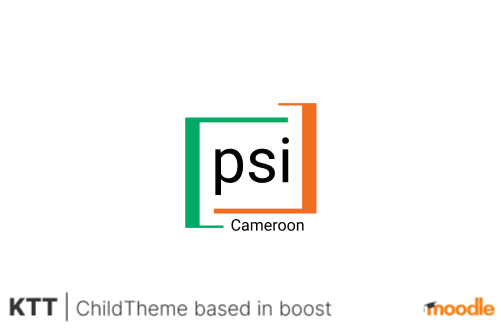
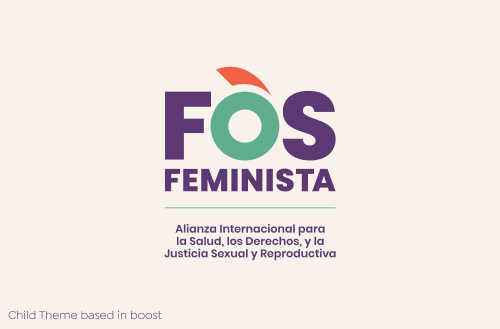
update

Changed region(s): [[0.33, 0.1824, 0.69, 0.7903], [0.0, 0.8815, 0.66, 0.9726], [0.84, 0.8815, 0.99, 0.9726]]

diff --git a/statics/contact.html b/statics/contact.html
@@ -6,7 +6,7 @@
   <body>
     <div class="con_img">
       <img
-        src="/theme/image.php/ktt_boost_child_cmrn/theme_ktt_boost_child_cmrn/1702559881/ou_img/contact"
+        src="/theme/image.php/child_fos_feminista/theme_child_fos_feminista/1702559881/ou_img/contact"
       />
       <div class="img_tt">
         <h2>
@@ -23,7 +23,7 @@
         <div class="smpl_card">
           <div class="cont_icon">
             <img
-              src="/theme/image.php/ktt_boost_child_cmrn/theme_ktt_boost_child_cmrn/1702559881/icons/image1"
+              src="/theme/image.php/child_fos_feminista/theme_child_fos_feminista/1702559881/icons/image1"
             />
           </div>
           <div class="cont_descr">
@@ -44,7 +44,7 @@
         <div class="smpl_card">
           <div class="cont_icon">
             <img
-              src="/theme/image.php/ktt_boost_child_cmrn/theme_ktt_boost_child_cmrn/1702559881/icons/image2"
+              src="/theme/image.php/child_fos_feminista/theme_child_fos_feminista/1702559881/icons/image2"
             />
           </div>
           <div class="cont_descr">
@@ -68,7 +68,7 @@
         <div class="smpl_card">
           <div class="cont_icon">
             <img
-              src="/theme/image.php/ktt_boost_child_cmrn/theme_ktt_boost_child_cmrn/1702559881/icons/image3"
+              src="/theme/image.php/child_fos_feminista/theme_child_fos_feminista/1702559881/icons/image3"
             />
           </div>
           <div class="cont_descr">
@@ -90,7 +90,7 @@
         <div class="smpl_card">
           <div class="cont_icon">
             <img
-              src="/theme/image.php/ktt_boost_child_cmrn/theme_ktt_boost_child_cmrn/1702559881/icons/image4"
+              src="/theme/image.php/child_fos_feminista/theme_child_fos_feminista/1702559881/icons/image4"
             />
           </div>
           <div class="cont_descr">
@@ -110,7 +110,7 @@
         <div class="smpl_card">
           <div class="cont_icon">
             <img
-              src="/theme/image.php/ktt_boost_child_cmrn/theme_ktt_boost_child_cmrn/1702559881/icons/image5"
+              src="/theme/image.php/child_fos_feminista/theme_child_fos_feminista/1702559881/icons/image5"
             />
           </div>
           <div class="cont_descr">
@@ -130,7 +130,7 @@
         <div class="smpl_card">
           <div class="cont_icon">
             <img
-              src="/theme/image.php/ktt_boost_child_cmrn/theme_ktt_boost_child_cmrn/1702559881/icons/image6"
+              src="/theme/image.php/child_fos_feminista/theme_child_fos_feminista/1702559881/icons/image6"
             />
           </div>
           <div class="cont_descr">

diff --git a/statics/about.html b/statics/about.html
@@ -6,7 +6,7 @@
   <body>
     <div class="con_img">
       <img
-        src="/theme/image.php/ktt_boost_child_cmrn/theme_ktt_boost_child_cmrn/1702559881/ou_img/aboutus"
+        src="/theme/image.php/child_fos_feminista/theme_child_fos_feminista/1702559881/ou_img/aboutus"
       />
       <div class="img_tt">
         <h2>
@@ -27,13 +27,13 @@
       <div class="cont_icon_frs">
         <div class="icon_frs">
           <img
-            src="/theme/image.php/ktt_boost_child_cmrn/theme_ktt_boost_child_cmrn/1702559881/ou_img/psi-cameroon"
+            src="/theme/image.php/child_fos_feminista/theme_child_fos_feminista/1702559881/ou_img/psi-cameroon"
             alt=""
           />
         </div>
         <div class="frs">
           <h2>
-            <span lang="en" class="multilang">PSI - Cameroon</span
+            <span lang="en" class="multilang">PSI - FOS Feministaa</span
             ><span lang="fr" class="multilang">PSI - Cameroun</span>
           </h2>
           <p>

diff --git a/scss/post.scss b/scss/post.scss
@@ -1,4 +1,4 @@
-$bk: #FFF;
+$bk: #000;
 $mav_primary: #000000;
 $mav_primary_s: #F26A5E;
 

diff --git a/settings.php b/settings.php
@@ -10,22 +10,22 @@ defined('MOODLE_INTERNAL') || die();
 if ($ADMIN->fulltree) {
 
     // Boost provides a nice setting page which splits settings onto separate tabs. We want to use it here.
-    $settings = new theme_boost_admin_settingspage_tabs('themesettingktt_boost_child_cmrn', get_string('configtitle', 'theme_ktt_boost_child_cmrn'));
+    $settings = new theme_boost_admin_settingspage_tabs('themesettingchild_fos_feminista', get_string('configtitle', 'theme_child_fos_feminista'));
 
     // Each page is a tab - the first is the "General" tab.
-    $page = new admin_settingpage('theme_ktt_boost_child_cmrn_general', get_string('generalsettings', 'theme_ktt_boost_child_cmrn'));
+    $page = new admin_settingpage('theme_child_fos_feminista_general', get_string('generalsettings', 'theme_child_fos_feminista'));
 
     // Replicate the preset setting from boost.
-    $name = 'theme_ktt_boost_child_cmrn/preset';
-    $title = get_string('preset', 'theme_ktt_boost_child_cmrn');
-    $description = get_string('preset_desc', 'theme_ktt_boost_child_cmrn');
+    $name = 'theme_child_fos_feminista/preset';
+    $title = get_string('preset', 'theme_child_fos_feminista');
+    $description = get_string('preset_desc', 'theme_child_fos_feminista');
     $default = 'default.scss';
 
     // We list files in our own file area to add to the drop down. We will provide our own function to
     // load all the presets from the correct paths.
     $context = context_system::instance();
     $fs = get_file_storage();
-    $files = $fs->get_area_files($context->id, 'theme_ktt_boost_child_cmrn', 'preset', 0, 'itemid, filepath, filename', false);
+    $files = $fs->get_area_files($context->id, 'theme_child_fos_feminista', 'preset', 0, 'itemid, filepath, filename', false);
 
     $choices = [];
     foreach ($files as $file) {
@@ -40,9 +40,9 @@ if ($ADMIN->fulltree) {
     $page->add($setting);
 
     // Preset files setting.
-    $name = 'theme_ktt_boost_child_cmrn/presetfiles';
-    $title = get_string('presetfiles','theme_ktt_boost_child_cmrn');
-    $description = get_string('presetfiles_desc', 'theme_ktt_boost_child_cmrn');
+    $name = 'theme_child_fos_feminista/presetfiles';
+    $title = get_string('presetfiles','theme_child_fos_feminista');
+    $description = get_string('presetfiles_desc', 'theme_child_fos_feminista');
 
     $setting = new admin_setting_configstoredfile($name, $title, $description, 'preset', 0,
                                                   array('maxfiles' => 20, 'accepted_types' => array('.scss')));
@@ -50,9 +50,9 @@ if ($ADMIN->fulltree) {
 
     // Variable $brand-color.
     // We use an empty default value because the default colour should come from the preset.
-    $name = 'theme_ktt_boost_child_cmrn/brandcolor';
-    $title = get_string('brandcolor', 'theme_ktt_boost_child_cmrn');
-    $description = get_string('brandcolor_desc', 'theme_ktt_boost_child_cmrn');
+    $name = 'theme_child_fos_feminista/brandcolor';
+    $title = get_string('brandcolor', 'theme_child_fos_feminista');
+    $description = get_string('brandcolor_desc', 'theme_child_fos_feminista');
     $setting = new admin_setting_configcolourpicker($name, $title, $description, '');
     $setting->set_updatedcallback('theme_reset_all_caches');
     $page->add($setting);
@@ -61,17 +61,17 @@ if ($ADMIN->fulltree) {
     $settings->add($page);
 
     // Advanced settings.
-    $page = new admin_settingpage('theme_ktt_boost_child_cmrn_advanced', get_string('advancedsettings', 'theme_ktt_boost_child_cmrn'));
+    $page = new admin_settingpage('theme_child_fos_feminista_advanced', get_string('advancedsettings', 'theme_child_fos_feminista'));
 
     // Raw SCSS to include before the content.
-    $setting = new admin_setting_configtextarea('theme_ktt_boost_child_cmrn/scsspre',
-                                                get_string('rawscsspre', 'theme_ktt_boost_child_cmrn'), get_string('rawscsspre_desc', 'theme_ktt_boost_child_cmrn'), '', PARAM_RAW);
+    $setting = new admin_setting_configtextarea('theme_child_fos_feminista/scsspre',
+                                                get_string('rawscsspre', 'theme_child_fos_feminista'), get_string('rawscsspre_desc', 'theme_child_fos_feminista'), '', PARAM_RAW);
     $setting->set_updatedcallback('theme_reset_all_caches');
     $page->add($setting);
 
     // Raw SCSS to include after the content.
-    $setting = new admin_setting_configtextarea('theme_ktt_boost_child_cmrn/scss', get_string('rawscss', 'theme_ktt_boost_child_cmrn'),
-                                                get_string('rawscss_desc', 'theme_ktt_boost_child_cmrn'), '', PARAM_RAW);
+    $setting = new admin_setting_configtextarea('theme_child_fos_feminista/scss', get_string('rawscss', 'theme_child_fos_feminista'),
+                                                get_string('rawscss_desc', 'theme_child_fos_feminista'), '', PARAM_RAW);
     $setting->set_updatedcallback('theme_reset_all_caches');
     $page->add($setting);
 

diff --git a/lib.php b/lib.php
@@ -6,7 +6,7 @@
 defined('MOODLE_INTERNAL') || die();
 
 // We will add callbacks here as we add features to our theme.
-function theme_ktt_boost_child_cmrn_get_main_scss_content($theme) {
+function theme_child_fos_feminista_get_main_scss_content($theme) {
     global $CFG;
 
     $scss = '';
@@ -21,24 +21,24 @@ function theme_ktt_boost_child_cmrn_get_main_scss_content($theme) {
         // We still load the default preset files directly from the boost theme. No sense in duplicating them.
         $scss .= file_get_contents($CFG->dirroot . '/theme/boost/scss/preset/plain.scss');
 
-    } else if ($filename && ($presetfile = $fs->get_file($context->id, 'theme_ktt_boost_child_cmrn', 'preset', 0, '/', $filename))) {
-        // This preset file was fetched from the file area for theme_ktt_boost_child_cmrn and not theme_boost (see the line above).
+    } else if ($filename && ($presetfile = $fs->get_file($context->id, 'theme_child_fos_feminista', 'preset', 0, '/', $filename))) {
+        // This preset file was fetched from the file area for theme_child_fos_feminista and not theme_boost (see the line above).
         $scss .= $presetfile->get_content();
     } else {
         // Safety fallback - maybe new installs etc.
         $scss .= file_get_contents($CFG->dirroot . '/theme/boost/scss/preset/default.scss');
     }
     // Pre CSS - this is loaded AFTER any prescss from the setting but before the main scss.
-    $pre = file_get_contents($CFG->dirroot . '/theme/ktt_boost_child_cmrn/scss/pre.scss');
+    $pre = file_get_contents($CFG->dirroot . '/theme/child_fos_feminista/scss/pre.scss');
     // Post CSS - this is loaded AFTER the main scss but before the extra scss from the setting.
-    $post = file_get_contents($CFG->dirroot . '/theme/ktt_boost_child_cmrn/scss/post.scss');
+    $post = file_get_contents($CFG->dirroot . '/theme/child_fos_feminista/scss/post.scss');
     // Combine them together.
     return $pre . "\n" . $scss . "\n" . $post;
 }
 
-function ktt_boost_child_cmrn_extend_navigation(global_navigation $navigation) {
-    $url_contact = new moodle_url('/theme/ktt_boost_child_cmrn/pages/contact.php');
-    $url_about = new moodle_url('/theme/ktt_boost_child_cmrn/pages/about.php');
+function child_fos_feminista_extend_navigation(global_navigation $navigation) {
+    $url_contact = new moodle_url('/theme/child_fos_feminista/pages/contact.php');
+    $url_about = new moodle_url('/theme/child_fos_feminista/pages/about.php');
     
     $node_contact = navigation_node::create('Página contact', $url_contact, navigation_node::NODETYPE_LEAF, null, 'contact');
     $node_about = navigation_node::create('Página about', $url_about, navigation_node::NODETYPE_LEAF, null, 'about');

diff --git a/layout/frontpage.php b/layout/frontpage.php
@@ -106,15 +106,15 @@ $templatecontext = [
     'overflow' => $overflow,
     'headercontent' => $headercontent,
     'addblockbutton' => $addblockbutton,
-    'partner1' => $OUTPUT->image_url('ou_img/Ministryofhealth', 'theme_ktt_boost_child_cmrn'),
-    'partner2' => $OUTPUT->image_url('ou_img/psi-cameroon', 'theme_ktt_boost_child_cmrn'),
-    'partner3' => $OUTPUT->image_url('ou_img/logo', 'theme_ktt_boost_child_cmrn'),
-    'logofooter' => $OUTPUT->image_url('ou_img/logoFooter', 'theme_ktt_boost_child_cmrn'),
-    'img1' => $OUTPUT->image_url('ou_img/img1', 'theme_ktt_boost_child_cmrn'),
-    'img2' => $OUTPUT->image_url('ou_img/img2', 'theme_ktt_boost_child_cmrn'),
-    'img3' => $OUTPUT->image_url('ou_img/img3', 'theme_ktt_boost_child_cmrn'),
-    'img4' => $OUTPUT->image_url('ou_img/img4', 'theme_ktt_boost_child_cmrn'),
-    'img5' => $OUTPUT->image_url('ou_img/img5', 'theme_ktt_boost_child_cmrn')
+    'partner1' => $OUTPUT->image_url('ou_img/Ministryofhealth', 'theme_child_fos_feminista'),
+    'partner2' => $OUTPUT->image_url('ou_img/psi-cameroon', 'theme_child_fos_feminista'),
+    'partner3' => $OUTPUT->image_url('ou_img/logo', 'theme_child_fos_feminista'),
+    'logofooter' => $OUTPUT->image_url('ou_img/logoFooter', 'theme_child_fos_feminista'),
+    'img1' => $OUTPUT->image_url('ou_img/img1', 'theme_child_fos_feminista'),
+    'img2' => $OUTPUT->image_url('ou_img/img2', 'theme_child_fos_feminista'),
+    'img3' => $OUTPUT->image_url('ou_img/img3', 'theme_child_fos_feminista'),
+    'img4' => $OUTPUT->image_url('ou_img/img4', 'theme_child_fos_feminista'),
+    'img5' => $OUTPUT->image_url('ou_img/img5', 'theme_child_fos_feminista')
 ];
 
-echo $OUTPUT->render_from_template('theme_ktt_boost_child_cmrn/frontpage', $templatecontext);
+echo $OUTPUT->render_from_template('theme_child_fos_feminista/frontpage', $templatecontext);

diff --git a/lang/en/theme_child_fos_feminista.php b/lang/en/theme_child_fos_feminista.php
@@ -5,9 +5,9 @@
 defined('MOODLE_INTERNAL') || die();
 
 // A description shown in the admin theme selector.
-$string['choosereadme'] = 'Theme ktt_boost_child_cmrn is a child theme of Boost. It adds the ability to upload background photos.';
+$string['choosereadme'] = 'Theme child_fos_feminista is a child theme of Boost. It adds the ability to upload background photos.';
 // The name of our plugin.
-$string['pluginname'] = 'ktt_boost_child_cmrn theme';
+$string['pluginname'] = 'FOS Feminista';
 // We need to include a lang string for each block region.
 $string['region-side-pre'] = 'Right';
 // The name of the second tab in the theme settings.
@@ -17,7 +17,7 @@ $string['brandcolor'] = 'Brand colour';
 // The brand colour setting description.
 $string['brandcolor_desc'] = 'The accent colour.';
 // Name of the settings pages.
-$string['configtitle'] = 'ktt_boost_child_cmrn settings';
+$string['configtitle'] = 'child_fos_feminista settings';
 // Name of the first settings tab.
 $string['generalsettings'] = 'General settings';
 // Preset files setting.
@@ -64,7 +64,7 @@ $string['footer_titleMenu2'] = 'USEFUL LINKS';
 $string['footer_menu1Item1'] = 'Privacy Policy';
 $string['footer_menu1Item3'] = 'Terms';
 
-$string['footer_orgData'] = 'POPULATION SERVICES INTERNATIONAL CAMEROON | PSI FIRST FLOOR, MBHILIBHI HOUSE, CNR MBHILIBHI & TSEKWANE STREET, MBABANE | P O BOX 170, EVENI, H103';
+$string['footer_orgData'] = 'POPULATION SERVICES INTERNATIONAL FOS fEMINISTA | PSI FIRST FLOOR, MBHILIBHI HOUSE, CNR MBHILIBHI & TSEKWANE STREET, MBABANE | P O BOX 170, EVENI, H103';
 $string['footer_contactNumberLb'] = 'Call:';
 
 $string['footer_links'] = '';

diff --git a/lang/fr/theme_child_fos_feminista.php b/lang/fr/theme_child_fos_feminista.php
@@ -5,9 +5,9 @@
 defined('MOODLE_INTERNAL') || die();
 
 // A description shown in the admin theme selector.
-$string['choosereadme'] = "Le thème ktt_boost_child_cmrn est un thème enfant de Boost. Il ajoute la possibilité de télécharger des photos d'arrière-plan.";
+$string['choosereadme'] = "Le thème child_fos_feminista est un thème enfant de Boost. Il ajoute la possibilité de télécharger des photos d'arrière-plan.";
 // The name of our plugin.
-$string['pluginname'] = "thème ktt_boost_child_cmrn";
+$string['pluginname'] = "FOS Feminista";
 // We need to include a lang string for each block region.
 $string['region-side-pre'] = 'Droit';
 // The name of the second tab in the theme settings.
@@ -17,7 +17,7 @@ $string['brandcolor'] = 'Couleur de la marque';
 // The brand colour setting description.
 $string['brandcolor_desc'] = 'La couleur d’accent.';
 // Name of the settings pages.
-$string['configtitle'] = 'Paramètres de ktt_boost_child_cmrn';
+$string['configtitle'] = 'Paramètres de child_fos_feminista';
 // Name of the first settings tab.
 $string['generalsettings'] = 'Réglages généraux';
 // Preset files setting.
@@ -64,7 +64,7 @@ $string['footer_titleMenu2'] = 'LIENS UTILES';
 $string['footer_menu1Item1'] = 'Politique de confidentialité';
 $string['footer_menu1Item3'] = 'Termes';
 
-$string['footer_orgData'] = 'POPULATION SERVICES INTERNATIONAL CAMEROON | ??? | ???';
+$string['footer_orgData'] = 'POPULATION SERVICES INTERNATIONAL FOS fEMINISTA | ??? | ???';
 $string['footer_contactNumberLb'] = 'Appel:';
 
 $string['footer_links'] = '';

diff --git a/config.php b/config.php
@@ -9,7 +9,7 @@ defined('MOODLE_INTERNAL') || die();
 
 // The first setting we need is the name of the theme. This should be the last part of the component name, and the same
 // as the directory name for our theme.
-$THEME->name = 'ktt_boost_child_cmrn';
+$THEME->name = 'child_fos_feminista';
 
 // This setting list the style sheets we want to include in our theme. Because we want to use SCSS instead of CSS - we won't
 // list any style sheets. If we did we would list the name of a file in the /style/ folder for our theme without any css file
@@ -51,8 +51,11 @@ $THEME->hidefromselector = false;
 // This is the function that returns the SCSS source for the main file in our theme. We override the boost version because
 // we want to allow presets uploaded to our own theme file area to be selected in the preset list.
 $THEME->scss = function($theme) {
-    return theme_ktt_boost_child_cmrn_get_main_scss_content($theme);
+    return theme_child_fos_feminista_get_main_scss_content($theme);
 };
+
+$THEME->compactlogo = 'ruta_a_tu_logo/compact_logo.png';
+
 //version 4.2
 $THEME->haseditswitch = true;
 //---------------------------

diff --git a/layout/login.php b/layout/login.php
@@ -32,7 +32,7 @@ $templatecontext = [
     'sitename' => format_string($SITE->shortname, true, ['context' => context_course::instance(SITEID), "escape" => false]),
     'output' => $OUTPUT,
     'bodyattributes' => $bodyattributes,
-    'imagbk' => $OUTPUT->image_url('ou_img/imageLogin', 'theme_ktt_boost_child_cmrn')
+    'imagbk' => $OUTPUT->image_url('ou_img/imageLogin', 'theme_child_fos_feminista')
 ];
 
 echo $OUTPUT->render_from_template('theme_boost/login', $templatecontext);

diff --git a/layout/drawers.php b/layout/drawers.php
@@ -105,7 +105,7 @@ $templatecontext = [
     'overflow' => $overflow,
     'headercontent' => $headercontent,
     'addblockbutton' => $addblockbutton,
-    'logofooter' => $OUTPUT->image_url('ou_img/logoFooter', 'theme_ktt_boost_child_cmrn')
+    'logofooter' => $OUTPUT->image_url('ou_img/logoFooter', 'theme_child_fos_feminista')
 ];
 
 echo $OUTPUT->render_from_template('theme_boost/drawers', $templatecontext);

diff --git a/version.php b/version.php
@@ -13,7 +13,7 @@ $plugin->requires = '2016070700';
 
 // This is the component name of the plugin - it always starts with 'theme_'
 // for themes and should be the same as the name of the folder.
-$plugin->component = 'theme_ktt_boost_child_cmrn';
+$plugin->component = 'theme_child_fos_feminista';
 
 // This is a list of plugins, this plugin depends on (and their versions).
 $plugin->dependencies = [
